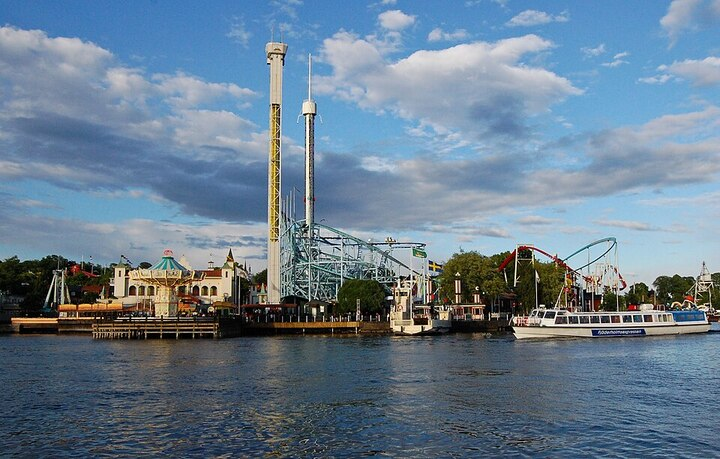
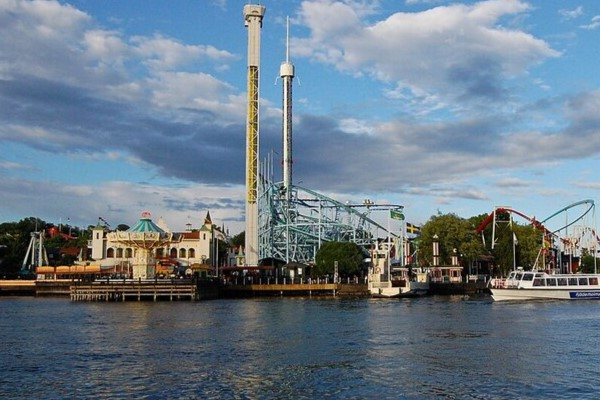
footer e redimencionamento de imagem

diff --git a/index.html b/index.html
@@ -12,7 +12,7 @@
 </head>
 
 <body>
-    <div class="container-fluid flag ">
+    <div class="container-fluid flag">
         <div class="row g-0">
             <div class="col-2">
                 <div class="corner">
@@ -329,6 +329,9 @@
 
         </div>
     </div>
+    <footer class="container-fluid text-center p-2">
+        <span>feito por Kaike Grando</span>
+    </footer>
 </body>
 <script src="https://cdn.jsdelivr.net/npm/@popperjs/core@2.9.2/dist/umd/popper.min.js"
     integrity="sha384-IQsoLXl5PILFhosVNubq5LC7Qb9DXgDA9i+tQ8Zj3iwWAwPtgFTxbJ8NT4GN1R8p"

diff --git a/assets/CSS/style.css b/assets/CSS/style.css
@@ -1,6 +1,13 @@
 *{
     color:white;
 }
+footer{
+    background-color: #013a68;
+    min-height: 30px;
+}
+footer span{
+    color: #002d52;
+}
 .corner{
     background-color: #005194;
     min-height: 15vw;
